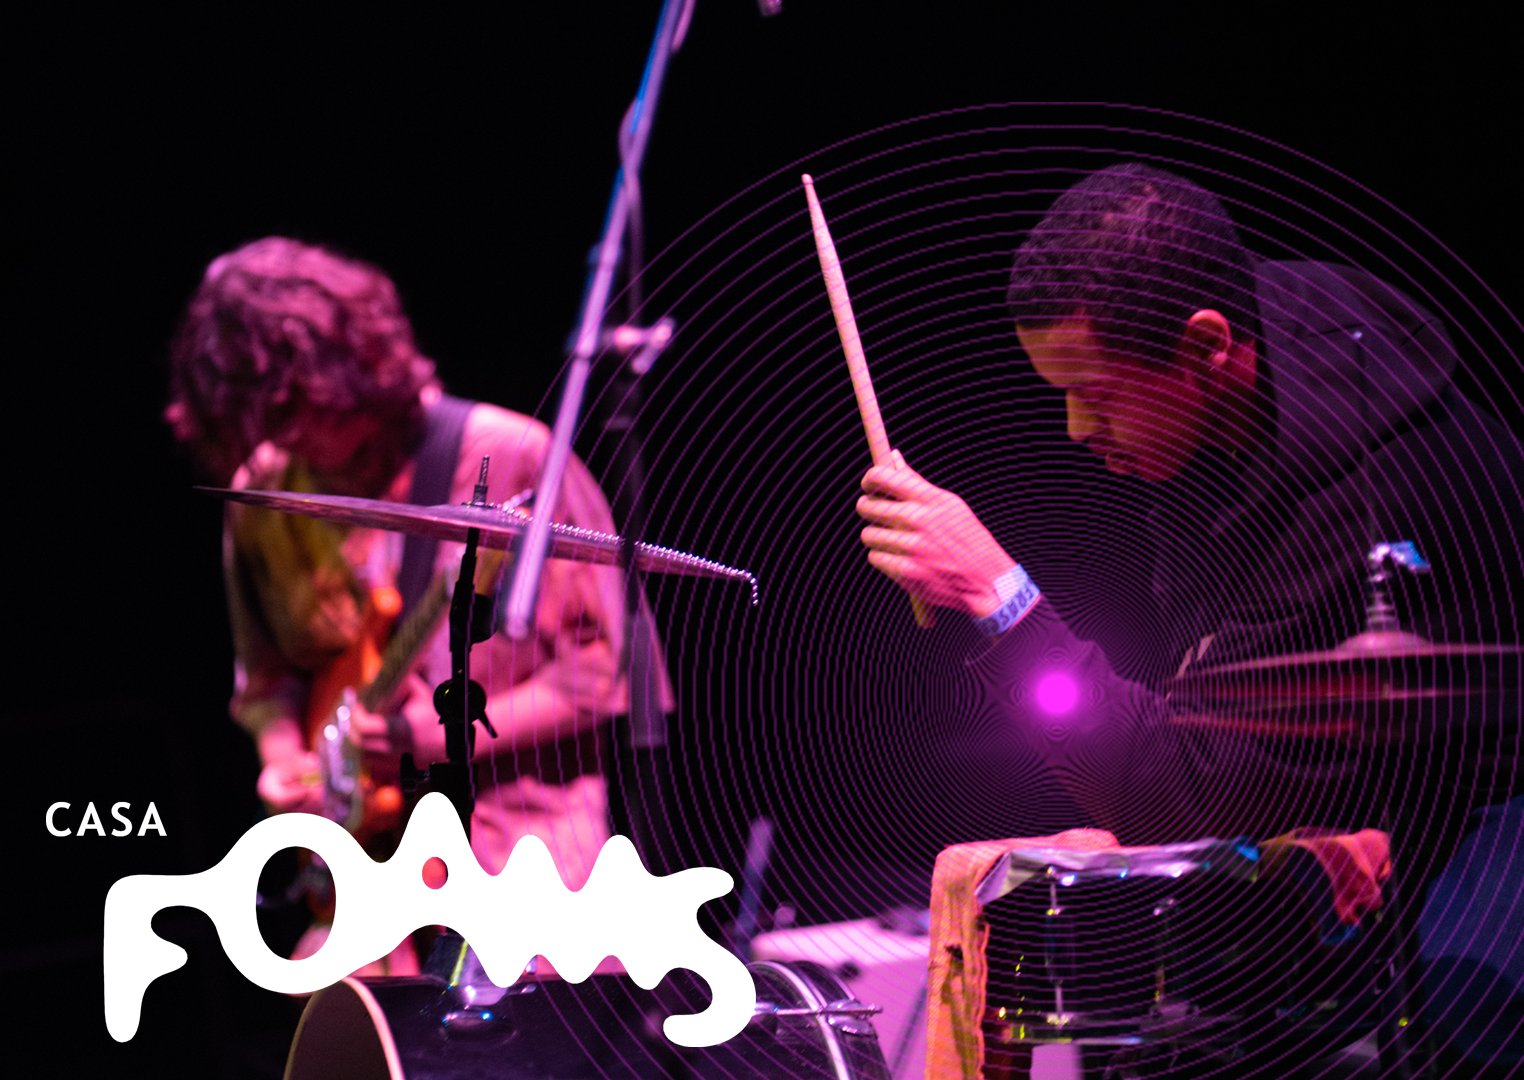
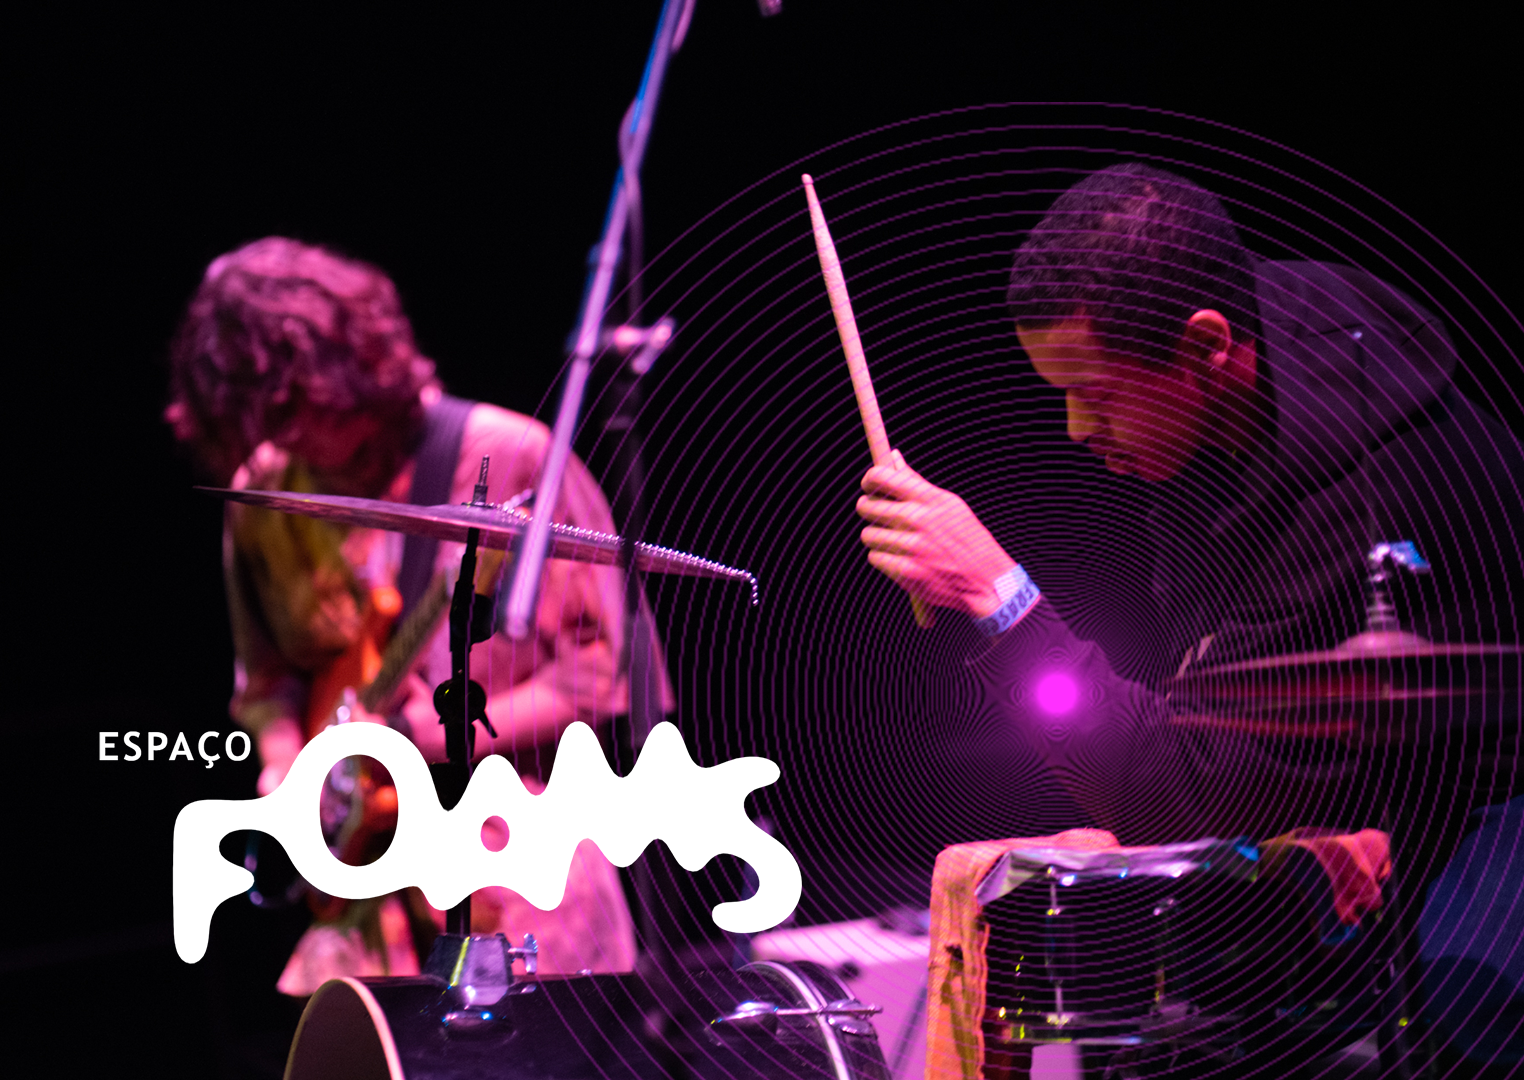
Add files via upload

Changed region(s): [[0.0308, 0.6722, 0.5243, 0.9778]]

diff --git a/brand-guide/index.html b/brand-guide/index.html
@@ -540,7 +540,7 @@
     }
 
     .logo-box.on-white { background: #ffffff; border: 1px solid var(--border-color); }
-    .logo-box.on-black { background: #111111; }
+    .logo-box.on-black { background: #000000; }
     .logo-box.on-transparent {
       background-color: #ffffff;
       background-image:
@@ -585,23 +585,24 @@
       position: fixed;
       bottom: 2rem;
       right: 2rem;
-      width: 44px;
-      height: 44px;
-      background: var(--black);
-      color: var(--white);
-      border: none;
+      width: 48px;
+      height: 48px;
+      background: var(--bg);
+      color: var(--brand);
+      border: 2px solid var(--brand);
       border-radius: 50%;
-      font-size: 1.2rem;
+      font-size: 1.3rem;
+      font-weight: 700;
       cursor: pointer;
       display: flex;
       align-items: center;
       justify-content: center;
-      z-index: 200;
+      z-index: 9999;
       opacity: 0;
       pointer-events: none;
-      transition: opacity 0.3s, background 0.2s;
+      transition: opacity 0.3s, background 0.2s, color 0.2s;
       text-decoration: none;
-      box-shadow: 0 2px 12px rgba(0,0,0,0.2);
+      box-shadow: 0 2px 16px rgba(0,0,0,0.35);
     }
 
     #back-to-top.visible {
@@ -611,7 +612,7 @@
 
     #back-to-top:hover {
       background: var(--brand);
-      color: var(--black);
+      color: #000;
     }
 
     /* ── DOWNLOAD OVERLAY ── */
@@ -995,6 +996,12 @@
   </style>
 </head>
 <body>
+  <script>
+    // Force scroll to top on every load (fixes iframe mid-scroll issue)
+    try { window.scrollTo(0, 0); } catch(e) {}
+    try { document.documentElement.scrollTop = 0; } catch(e) {}
+    try { document.body.scrollTop = 0; } catch(e) {}
+  </script>
 
   <!-- CONTROL BAR -->
   <div class="control-bar">
@@ -1018,15 +1025,15 @@
         <a href="#examples-of-usage" data-i18n="nav-examples">Examples of Usage</a>
         <a href="#closing" data-i18n="nav-closing">↓ Keep it fluid</a>
       </nav>
-      <div style="padding: 1.5rem 1.5rem 0; font-size: 0.68rem; color: var(--text-subtle); letter-spacing: 0.05em;">v1.6</div>
+      <div style="padding: 1.5rem 1.5rem 0; font-size: 0.68rem; color: var(--text-subtle); letter-spacing: 0.05em;">v1.7</div>
     </aside>
 
     <!-- MAIN -->
     <main>
 
       <!-- BRAND GUIDELINES -->
-      <section class="section" id="brand-guidelines">
-        <div class="section-header">
+      <section class="section" id="brand-guidelines" style="padding-bottom: 2rem;">
+        <div class="section-header" style="margin-bottom:0;">
           <h2 data-i18n="overview-h2">FOAMS Brand Guidelines</h2>
           <p data-i18n="overview-p">We've created a set of guidelines to help you bring our brand to life consistently across every touchpoint. On this page you'll find our high-level guidelines and the assets you'll need.</p>
         </div>
@@ -1671,6 +1678,10 @@
     const sections = document.querySelectorAll('.section');
     const navLinks = document.querySelectorAll('.sidebar nav a');
 
+    // Set Overview as active on load
+    const overviewLink = document.querySelector('.sidebar nav a[href="#brand-guidelines"]');
+    if (overviewLink) overviewLink.classList.add('active');
+
     const observer = new IntersectionObserver((entries) => {
       entries.forEach(entry => {
         if (entry.isIntersecting) {
@@ -1684,20 +1695,31 @@
 
     sections.forEach(s => observer.observe(s));
 
-    // Back to top visibility — works both standalone and inside iframe
+    // ── BACK TO TOP — iframe-safe ──
     const backToTop = document.getElementById('back-to-top');
     const scrollRoot = document.scrollingElement || document.documentElement;
 
     function getScrollTop() {
-      return window.scrollY || scrollRoot.scrollTop || 0;
+      return Math.max(
+        window.scrollY || 0,
+        scrollRoot.scrollTop || 0,
+        document.body.scrollTop || 0
+      );
     }
 
-    function onScroll() {
-      backToTop.classList.toggle('visible', getScrollTop() > 400);
+    function updateBackToTop() {
+      const show = getScrollTop() > 300;
+      backToTop.classList.toggle('visible', show);
     }
 
-    window.addEventListener('scroll', onScroll, { passive: true });
-    document.addEventListener('scroll', onScroll, { passive: true });
+    // Listen on every possible scroll target
+    window.addEventListener('scroll', updateBackToTop, { passive: true });
+    document.addEventListener('scroll', updateBackToTop, { passive: true });
+    document.documentElement.addEventListener('scroll', updateBackToTop, { passive: true });
+    document.body.addEventListener('scroll', updateBackToTop, { passive: true });
+
+    // Polling fallback for iframes that swallow scroll events
+    setInterval(updateBackToTop, 300);
 
     // Sidebar nav smooth scroll
     navLinks.forEach(link => {
@@ -1705,16 +1727,24 @@
         e.preventDefault();
         const targetId = link.getAttribute('href').replace('#', '');
         const target = document.getElementById(targetId);
-        if (target) target.scrollIntoView({ behavior: 'smooth', block: 'start' });
+        if (target) {
+          target.scrollIntoView({ behavior: 'smooth', block: 'start' });
+        }
       });
     });
 
-    // Back to top smooth scroll — works in iframe
+    // Back to top — scroll to very top, all methods
     backToTop.addEventListener('click', (e) => {
       e.preventDefault();
       try { window.scrollTo({ top: 0, behavior: 'smooth' }); } catch(err) {}
       try { scrollRoot.scrollTo({ top: 0, behavior: 'smooth' }); } catch(err) {}
-      scrollRoot.scrollTop = 0;
+      try { document.body.scrollTo({ top: 0, behavior: 'smooth' }); } catch(err) {}
+      // Hard fallback
+      setTimeout(() => {
+        scrollRoot.scrollTop = 0;
+        document.body.scrollTop = 0;
+        window.scrollY && (window.scrollY = 0);
+      }, 50);
     });
 
     // ── DOWNLOAD ICON OVERLAYS ──